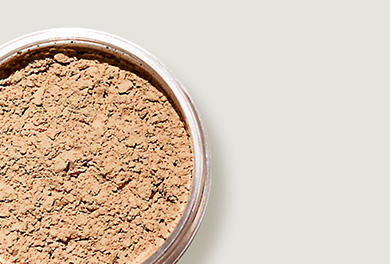
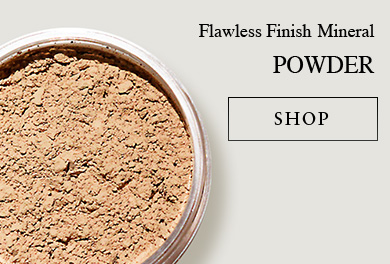
beauty update
beauty update

diff --git a/beauty.html b/beauty.html
@@ -191,19 +191,9 @@
 				 </div>
 				<div class="subViewBlock">
 					<div class="leftBlock">
-						<div class="textBlock gray">
-							<h1>PREMIUM BRUSHES</h1>
-							<p>For Face and Body</p>
-							<a href="#" class="buyBtn"></a>
-						</div>
 						<img src="public_en/source/beauty/002.jpg" />
 					</div>
 					<div class="rightBlock">
-						<div class="textBlock">
-							<p>Flawless Finish Mineral</p>
-							<h1>POWDER</h1>
-							<a href="#" class="buyBtn"></a>
-						</div>
 						<img src="public_en/source/beauty/003.jpg" />
 					</div>
 					<div class="clearFloat"></div>
